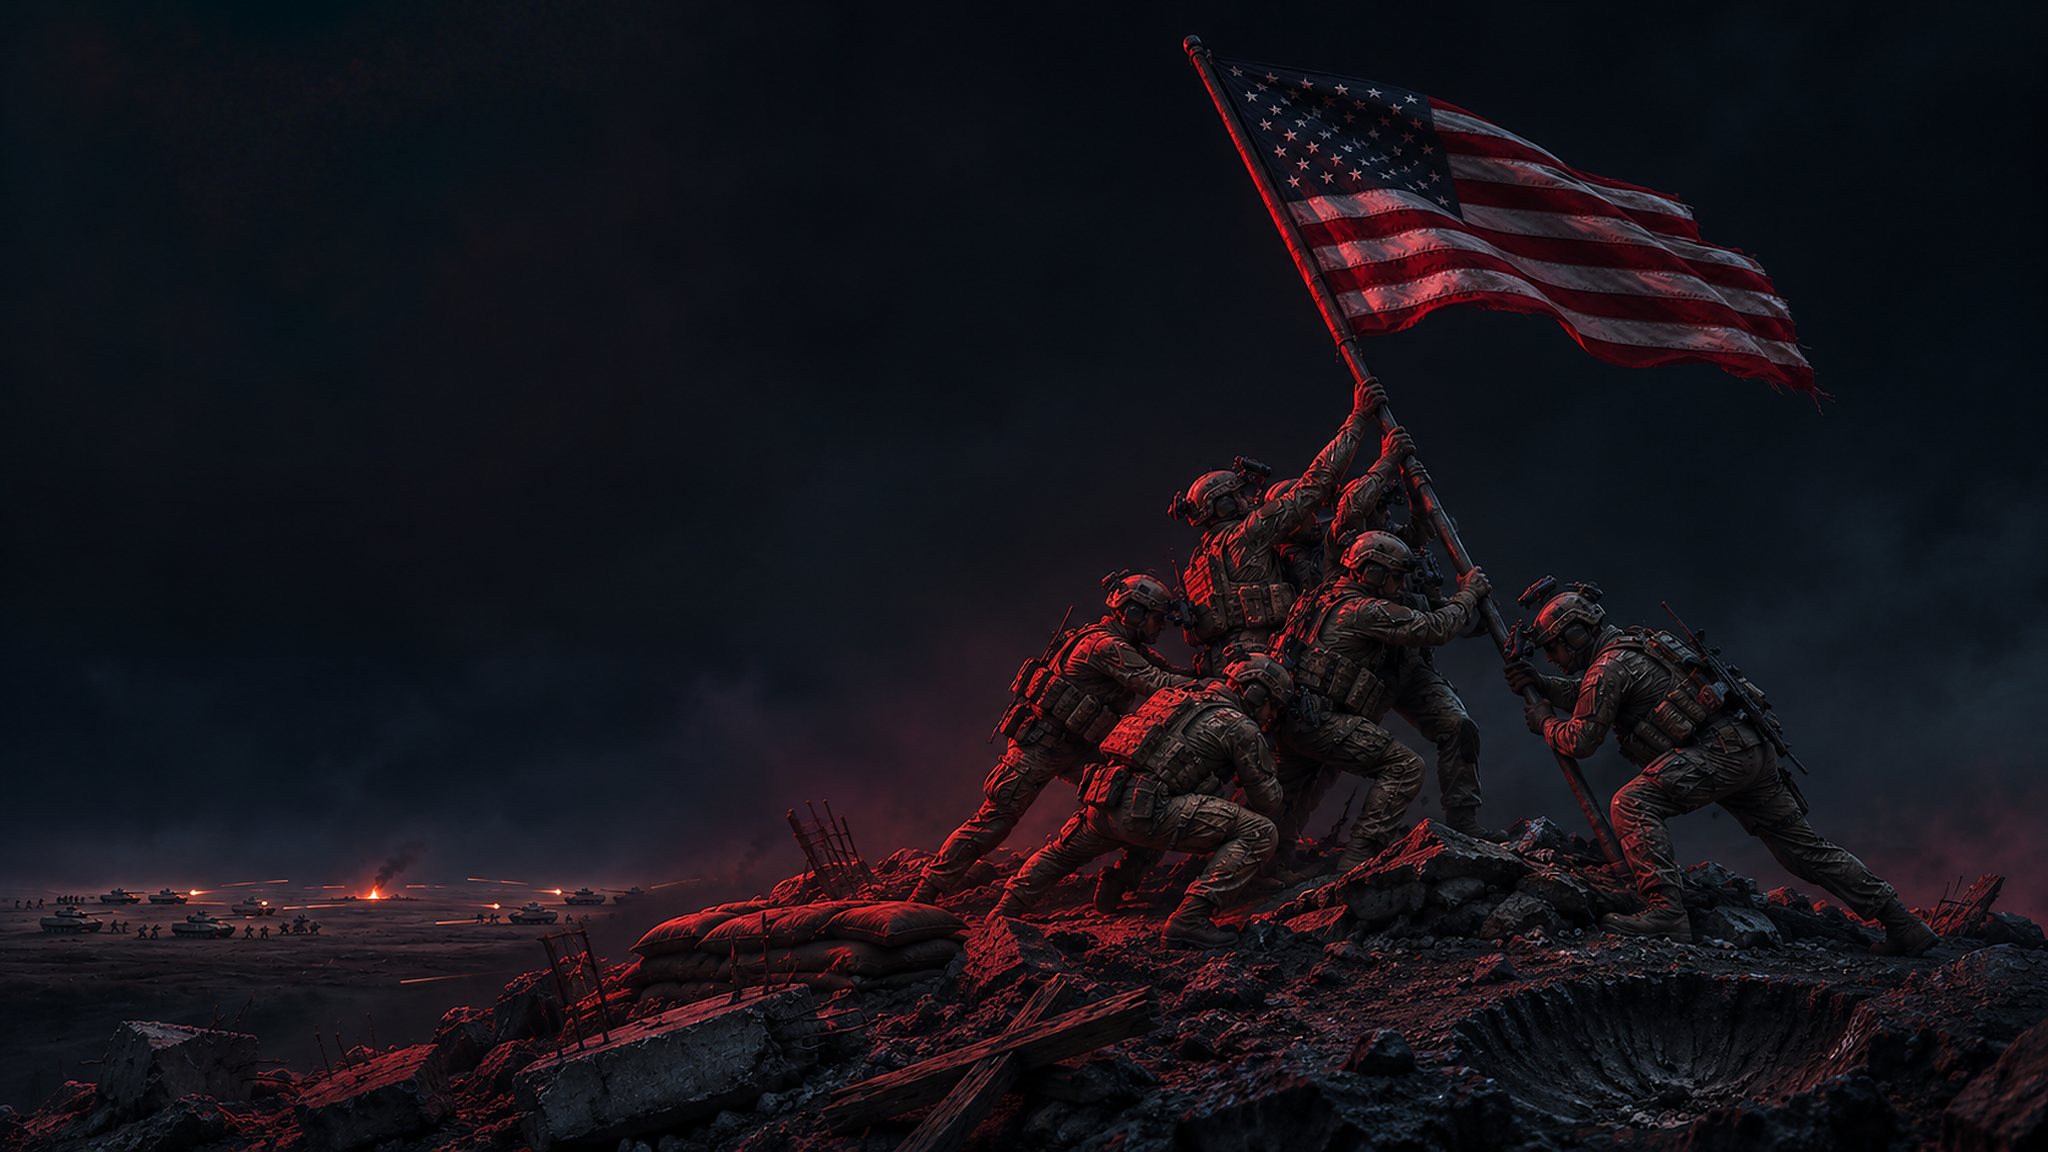
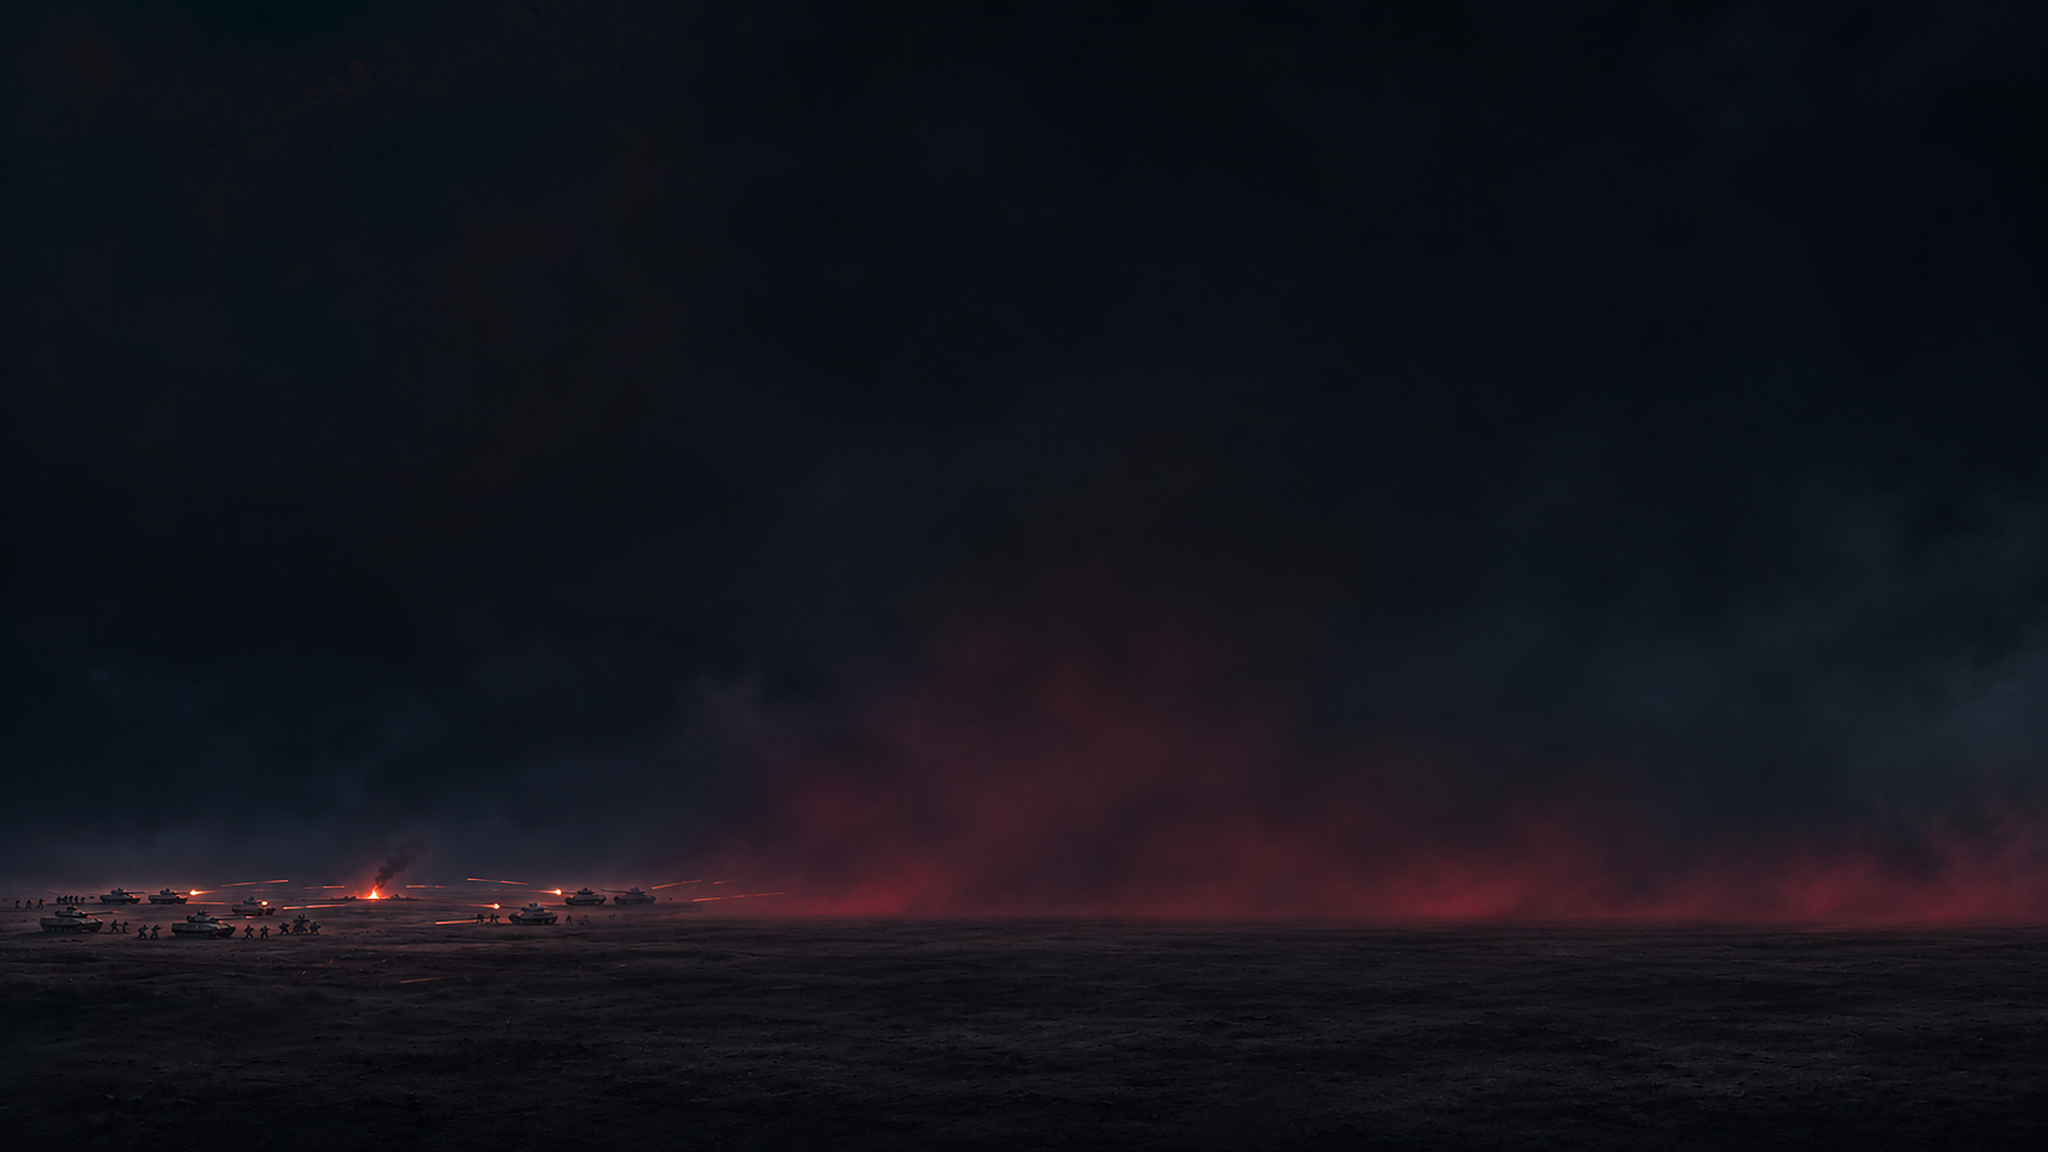
dev.41 batch: main menu hill + soldiers as their own parallax layer (Osama)
Osama 18 Nov 2026 10:4x PST: 'break the mountain with the soldiers off and add that as its own parralax layer'.
- hill.png: the locked pixels of the hill, soldiers and flag, cut with a generated mask (edge fit best at 0 px shift); on layer 'stones', limit [-26,12].
- base.png: same locked art, only the area under the hill filled from a generated clean plate (aligned at 0 px), so the band the hill uncovers is ground.
- MenuArt.cs: draw order from menu-art.json 'order' (ground, a1, stones, logo); old files keep ground, a1, logo. Compiles; not yet seen in game.

diff --git a/releases/0.6/source/runtime-qa/MenuArt.cs b/releases/0.6/source/runtime-qa/MenuArt.cs
@@ -16,7 +16,7 @@ namespace FreedomArrow;
 static class MenuArt
 {
     sealed class LayerSpec { public string image=""; public float w,h,x,y; public float[] limit=new float[2]; public float[] rot=new float[2]; }
-    sealed class Spec { public string background=""; public Dictionary<string,LayerSpec> layers=new(); public bool hide_other_layers=true; public string[] hide_paths=Array.Empty<string>(); }
+    sealed class Spec { public string background=""; public Dictionary<string,LayerSpec> layers=new(); public bool hide_other_layers=true; public string[] hide_paths=Array.Empty<string>(); public string[] order=Array.Empty<string>(); }
     static Spec spec; static readonly Dictionary<string,Sprite> sprites=new(); static string dir;
     static float deadline=-1, nextTry; static int applied; static IntPtr appliedTo;
     public static void Install(string root)
@@ -76,7 +76,9 @@ static class MenuArt
         // "Press any key": made for the bright vanilla sunset, it shows as a grey haze over our night scene (Osama 18 Nov 10:0x: "why is there a glow").
         int off=0;var screen=root.transform.parent;
         foreach(var path in spec.hide_paths){var h=screen!=null?screen.Find(path):null;if(h!=null){h.gameObject.SetActive(false);off++;}else MelonLogger.Warning("FREEDOM_ARROW_MENU_ART hide path not found: "+path);}
-        foreach(var name in new[]{"ground","a1","logo"})if(byName.TryGetValue(name,out var l)&&spec.layers.ContainsKey(name))l.Layer.SetSiblingIndex(order++);
+        // Draw order back to front: menu-art.json "order" (Osama 18 Nov 10:4x: the hill with the soldiers as its own parallax layer, in front of
+        // the aircraft and behind the title); older files without it keep ground, a1, logo.
+        foreach(var name in spec.order.Length>0?spec.order:new[]{"ground","a1","logo"})if(byName.TryGetValue(name,out var l)&&spec.layers.ContainsKey(name))l.Layer.SetSiblingIndex(order++);
         applied++;
         MelonLogger.Msg($"FREEDOM_ARROW_MENU_ART applied: {used} layer(s) ours, {hidden} vanilla layer(s) off, background {(bg!=null?"ours":"not found")}, {off} screen element(s) hidden");
         DiagnosticLog.Write("menu_art_applied",new{used,hidden,background=bg!=null});
